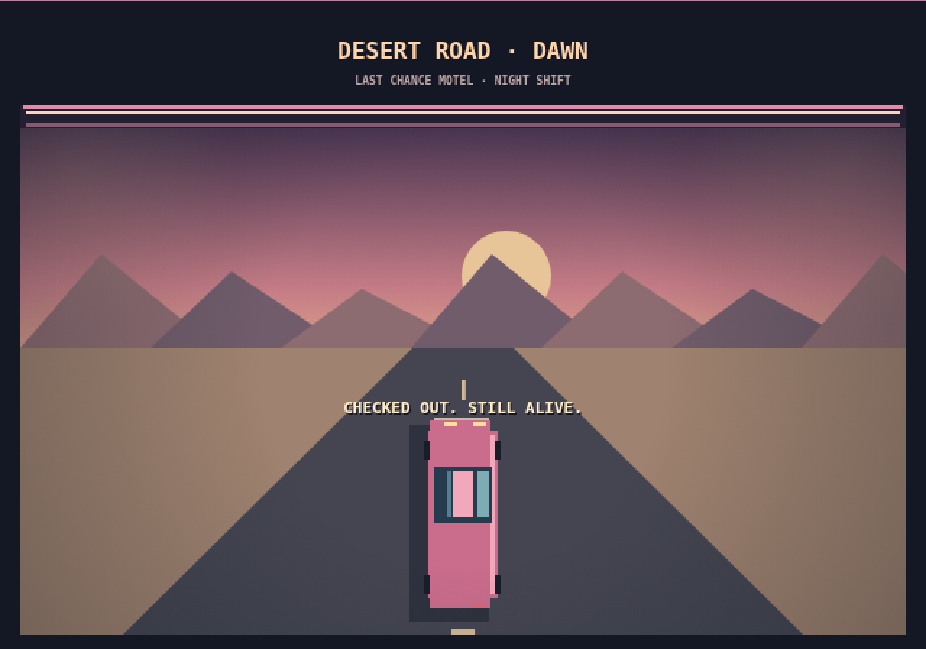
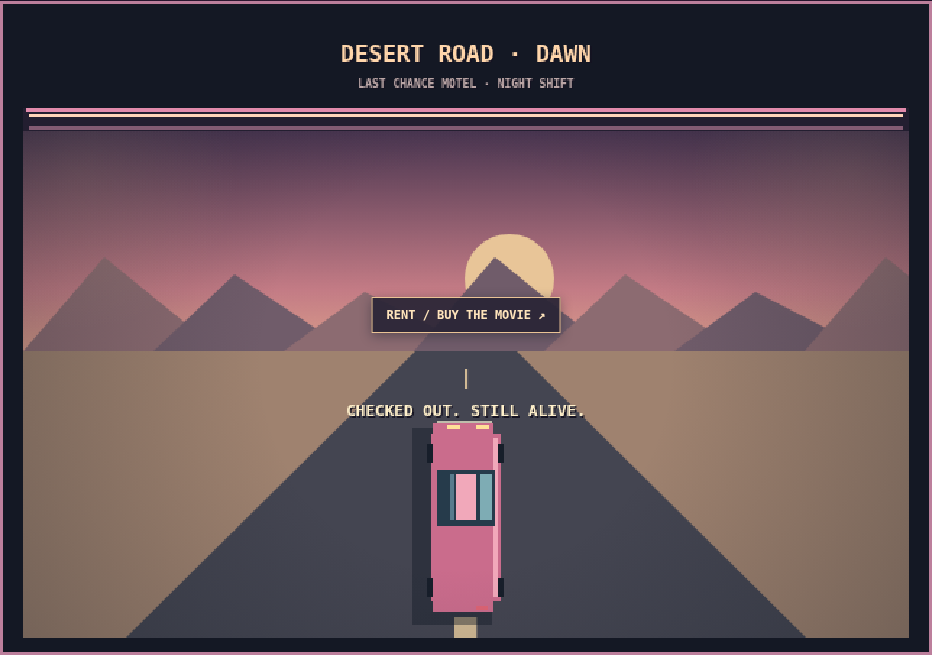
Boost escape movement after keys and add horizon watch link

diff --git a/index.html b/index.html
@@ -3,7 +3,7 @@
 <body><header><p class="eyebrow">CHECK IN. NEVER CHECK OUT.</p><h1>LAST CHANCE MOTEL</h1><p>NIGHT SHIFT · CHECKOUT IS NOT GUARANTEED</p></header>
 <main><section class="hud" aria-label="Game status"><div><small>LOCATION</small><strong id="location"></strong></div><div class="mission"><small>OBJECTIVE</small><strong id="mission"></strong></div><div><small>HEALTH</small><strong id="health"></strong></div><div class="inventory"><small>INVENTORY</small><strong id="inventory"></strong></div></section>
 <div class="toolbar"><button id="music" aria-pressed="false">♫ MUSIC OFF</button><button id="flare" aria-keyshortcuts="F" hidden>FLARE · F / TAP</button><button id="pause">PAUSE</button><button id="restart">RESTART</button></div>
-<p id="musicTrack" class="help" role="status"></p><p id="danger" role="status"></p><section class="screen"><canvas id="game" width="640" height="448" aria-label="Motel game. Move with WASD or arrows. Press E or Space to interact."></canvas><div id="paused" hidden>PAUSED</div></section>
+<p id="musicTrack" class="help" role="status"></p><p id="danger" role="status"></p><section class="screen"><canvas id="game" width="640" height="448" aria-label="Motel game. Move with WASD or arrows. Press E or Space to interact."></canvas><a id="escapeWatch" class="escape-watch" href="https://lastchancemotelmovie.com/#watch" target="_blank" rel="noopener" hidden>RENT / BUY THE MOVIE ↗</a><div id="paused" hidden>PAUSED</div></section>
 <section class="dialogue-card" aria-label="Conversation"><canvas id="portrait" width="64" height="64" aria-hidden="true"></canvas><div><span class="dialogue-label">CONVERSATION</span><p id="dialogue" class="dialogue" aria-live="polite">Welcome to the night shift. Walk up to Bobbi at reception to check in.</p></div></section>
 <div class="controls"><div class="dpad" aria-label="Movement"><button data-move="up" aria-label="Move up">▲</button><button data-move="left" aria-label="Move left">◀</button><button data-move="down" aria-label="Move down">▼</button><button data-move="right" aria-label="Move right">▶</button></div><button id="interact">INTERACT</button></div>
 <p id="chapter" class="chapter" hidden>Diner lead discovered. Show Bobbi the voucher to finish this chapter. The diner is the next chapter.</p>

diff --git a/source/night-shift/style.css b/source/night-shift/style.css
@@ -6,3 +6,5 @@
 .dialogue-card{display:flex;gap:16px;align-items:flex-start;margin:14px 0;padding:16px;background:linear-gradient(120deg,#302b39,#242635);border:1px solid #856778;border-left:3px solid #e4a590;box-shadow:0 5px 20px #0e142333;min-height:130px}.dialogue-card>div{min-width:0;flex:1}.dialogue-card #portrait{width:80px;height:80px;flex:0 0 80px;border:2px solid #bea38d;image-rendering:pixelated}.dialogue-label{font:10px monospace;letter-spacing:2px;color:#d5ab93}.dialogue-card .dialogue{margin:8px 0 0;padding:0;border:0;background:transparent;font:15px/1.75 system-ui,sans-serif;min-height:0;overflow-wrap:anywhere}.conversation-history{font-size:13px;color:#d5c3bd;padding:12px 0}.conversation-history summary{cursor:pointer}.conversation-history li{margin:12px 0;line-height:1.7}.screen{border-color:#bc7f9c;box-shadow:0 5px 34px #0c142a99}#game{image-rendering:pixelated}@media(max-width:480px){.dialogue-card{gap:12px;padding:12px;min-height:122px}.dialogue-card #portrait{width:56px;height:56px;flex-basis:56px}.dialogue-card .dialogue{font-size:14px;line-height:1.65}.dialogue-label{font-size:9px}}
 
 .movie-cta{display:inline-block;padding:14px;background:#da8aab;color:#201827;font:bold 13px monospace;text-decoration:none}#outcome{max-width:min(520px,92vw)}#organ button{margin:5px}#organSequence{font:14px/1.7 monospace;color:#e9c991}#musicTrack{margin:6px 0;text-align:right;font-size:11px}button[hidden]{display:none}.toolbar{flex-wrap:wrap}
+
+.escape-watch{position:absolute;left:50%;top:48%;transform:translate(-50%,-50%);z-index:1;padding:10px 14px;background:#292536ed;border:1px solid #eac395;color:#ffe4bb;font:bold 12px monospace;text-decoration:none;white-space:nowrap;box-shadow:0 3px 12px #11182766}.escape-watch:hover{background:#794d65}.escape-watch:focus-visible{outline:3px solid #fff1b9;outline-offset:3px}.escape-watch[hidden]{display:none}@media(max-width:480px){.escape-watch{font-size:10px;padding:8px 10px}}

diff --git a/tests/escape_updates_browser.py b/tests/escape_updates_browser.py
@@ -1,0 +1,50 @@
+"""Verify key pickup increases real movement speed and the horizon CTA is usable."""
+import asyncio,json
+from playwright.async_api import async_playwright
+from full_game_browser import snapshot,use
+async def open_state(browser,state,mobile):
+ page=await browser.new_page(viewport={'width':390,'height':844} if mobile else {'width':1280,'height':1000},has_touch=mobile)
+ await page.add_init_script('localStorage.setItem("lcm-night-shift-v1",'+json.dumps(json.dumps(state))+');')
+ await page.clock.install(time=0);await page.clock.pause_at(1000)
+ await page.goto('http://127.0.0.1:8000/');await page.clock.run_for(40)
+ return page
+async def distance(page):
+ start=await snapshot(page)
+ await page.keyboard.down('a');await page.clock.run_for(160);await page.keyboard.up('a')
+ return start['x']-(await snapshot(page))['x']
+async def main():
+ async with async_playwright() as p:
+  b=await p.chromium.launch(executable_path='/usr/bin/chromium',args=['--no-sandbox'])
+  base=dict(scene='graveyard',x=570,y=200,key=True,clue=True,voucher=True,completed=True,betty=True,order=True,token=True,chapelKey=True,escaped=True,score=True,crank=True,graveyardUnlocked=True,fuse=True,winchPowered=True,hp=3)
+  for mobile in [False,True]:
+   page=await open_state(b,base,mobile)
+   errors=[];page.on('pageerror',lambda e:errors.append(str(e)))
+   assert await page.locator('#escapeWatch').is_hidden()
+   normal=await distance(page)
+   await use(page,'keyBox',mobile)
+   assert (await snapshot(page))['carKeys']
+   boosted=await distance(page)
+   assert boosted>normal*1.15,(normal,boosted)
+   assert abs(normal-24.8)<2 and abs(boosted-29.6)<2,(normal,boosted)
+   assert not errors,errors
+   await page.close()
+   page=await open_state(b,{**base,'scene':'escape','x':320,'y':360,'carKeys':True,'won':True},mobile)
+   page.on('pageerror',lambda e:errors.append(str(e)))
+   await page.locator('#finish').click();await page.clock.run_for(40)
+   link=page.locator('#escapeWatch');assert await link.is_visible()
+   assert await link.get_attribute('href')=='https://lastchancemotelmovie.com/#watch'
+   canvas=await page.locator('#game').bounding_box();button=await link.bounding_box()
+   assert canvas['x']<=button['x'] and button['x']+button['width']<=canvas['x']+canvas['width']
+   assert abs((button['y']+button['height']/2-canvas['y'])/canvas['height']-.48)<.02
+   if not mobile:await page.locator('.screen').screenshot(path='docs/screenshots/escape.png')
+   await page.context.route('https://lastchancemotelmovie.com/**',lambda route:route.fulfill(status=200,body='<h1>Watch destination test stub</h1>'))
+   async with page.expect_popup() as popup_info:
+    if mobile:await link.tap()
+    else:await link.click()
+   popup=await popup_info.value;await popup.wait_for_load_state()
+   assert popup.url=='https://lastchancemotelmovie.com/#watch'
+   assert not errors,errors
+   await page.context.close()
+   print(json.dumps({'viewport':'mobile' if mobile else 'desktop','result':'PASS','normal_distance':normal,'boosted_distance':boosted,'CTA':'horizon link opens #watch (network stub)'}))
+  await b.close()
+asyncio.run(main())

diff --git a/tests/full_game_browser.py b/tests/full_game_browser.py
@@ -20,7 +20,7 @@ async def navigate(page,x,y,mobile):
    if mobile:
     button=page.locator('[data-move='+direction+']');await button.scroll_into_view_if_needed();r=await button.bounding_box();await page.mouse.move(r['x']+r['width']/2,r['y']+r['height']/2);await page.mouse.down()
    else:await page.keyboard.down(key)
-   await page.clock.run_for(round(abs(delta)/155*1000))
+   await page.clock.run_for(round(abs(delta)/(185 if current['carKeys'] else 155)*1000))
    if mobile:await page.mouse.up()
    else:await page.keyboard.up(key)
    check=await snapshot(page)

diff --git a/README.md b/README.md
@@ -41,7 +41,7 @@ The mission log keeps discovered clues. Hiding stops movement; interact again to
 13. Search the tool locker in the **northwest** for the winch fuse. Fit it to the **east-side winch control**, then recover the Cadillac keys from the **northeast key box**.
 14. The Monster patrols the wrecks and follows paths around solid obstacles. Watch its sight cone and warnings. The blue tarps at the north and south central gaps are hiding places. Keep moving when spotted and break line of sight.
 15. **Optional garage:** read the service plate near the southeast wrecks, then enter the garage. The locker asks for your room number followed by your arrival minute: **0617**. It gives first aid and a single flare. Use FLARE in the graveyard to hold the Monster back for eight seconds. This detour is not required to finish.
-16. Return through the west gate, retreat to the diner, pass through reception, and leave for the parking lot. Use the **pink Cadillac** to escape. **Taking the keys triggers a fast pursuit by both Harold and the Monster through every scene and door.** Run without stopping: hiding does not work during this escape, and the diner/chapel no longer restore health. A saved flare can hold both pursuers back for eight seconds, including indoors. Pause and open dialogs still freeze play. Room 07 stays locked even with the car keys.
+16. Return through the west gate, retreat to the diner, pass through reception, and leave for the parking lot. Use the **pink Cadillac** to escape. The desert-road view includes a clickable rent/buy link at the horizon, in addition to the ending dialog link. **Taking the keys triggers a fast pursuit by both Harold and the Monster through every scene and door.** Taking the keys also boosts the player from 155 to 185 pixels/second (about 19% faster); Harold runs at 180 and the Monster at 195. Run without stopping: hiding does not work during this escape, and the diner/chapel no longer restore health. A saved flare can hold both pursuers back for eight seconds, including indoors. Pause and open dialogs still freeze play. Room 07 stays locked even with the car keys.
 
 Before taking the keys, getting caught shows a retry screen and returns you to the diner (Harold) or chapel (Monster), with health restored and every puzzle item retained. During the final pursuit, a catch returns you to the west courtyard gate with your car keys retained; the chase resumes on retry. Music/notes are opt-in; both puzzles can be solved silently. Reloading resumes progress, including the completed escape ending. Restart clears the current save only after confirmation.
 
@@ -65,6 +65,7 @@ python3 tests/full_game_browser.py
 python3 tests/checkpoint_browser.py
 python3 tests/pursuit_browser.py
 python3 tests/flare_keyboard_browser.py
+python3 tests/escape_updates_browser.py
 python3 tests/audio_browser.py
 ```
 
